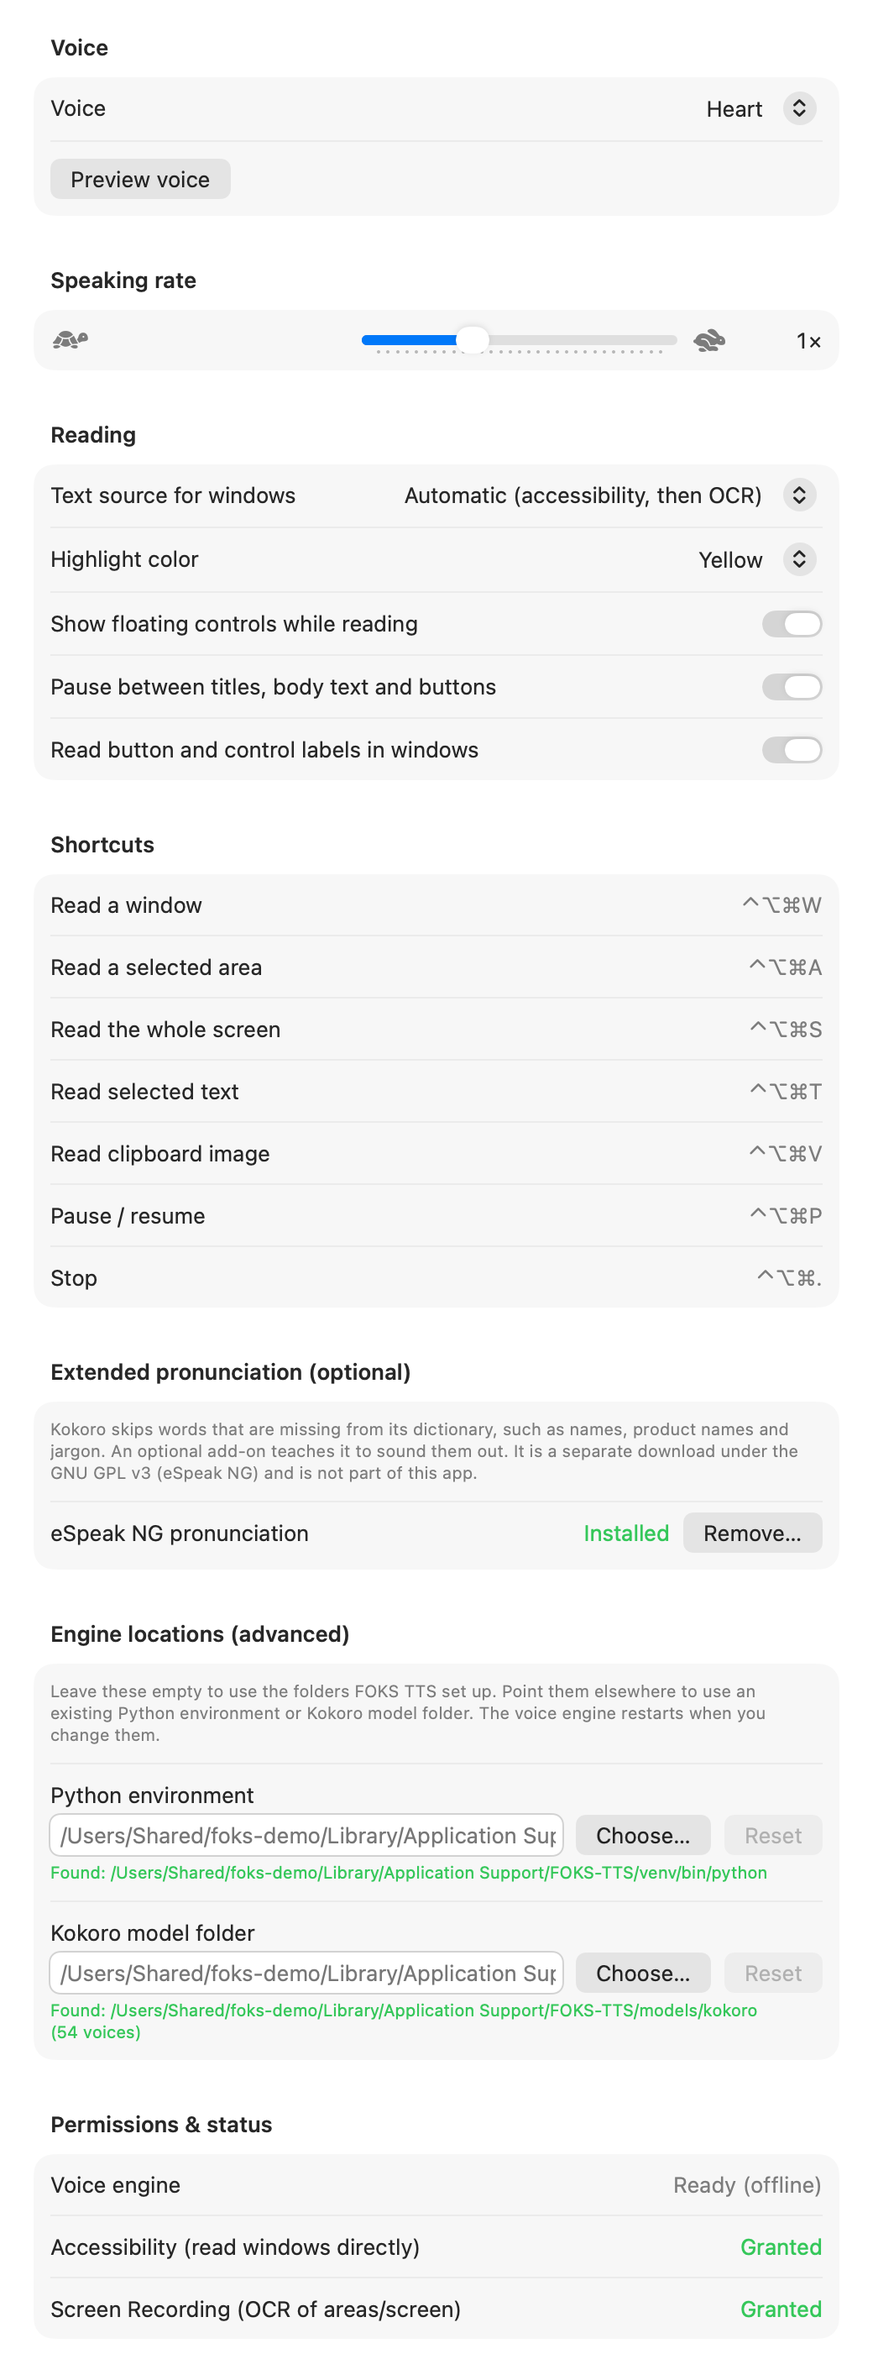
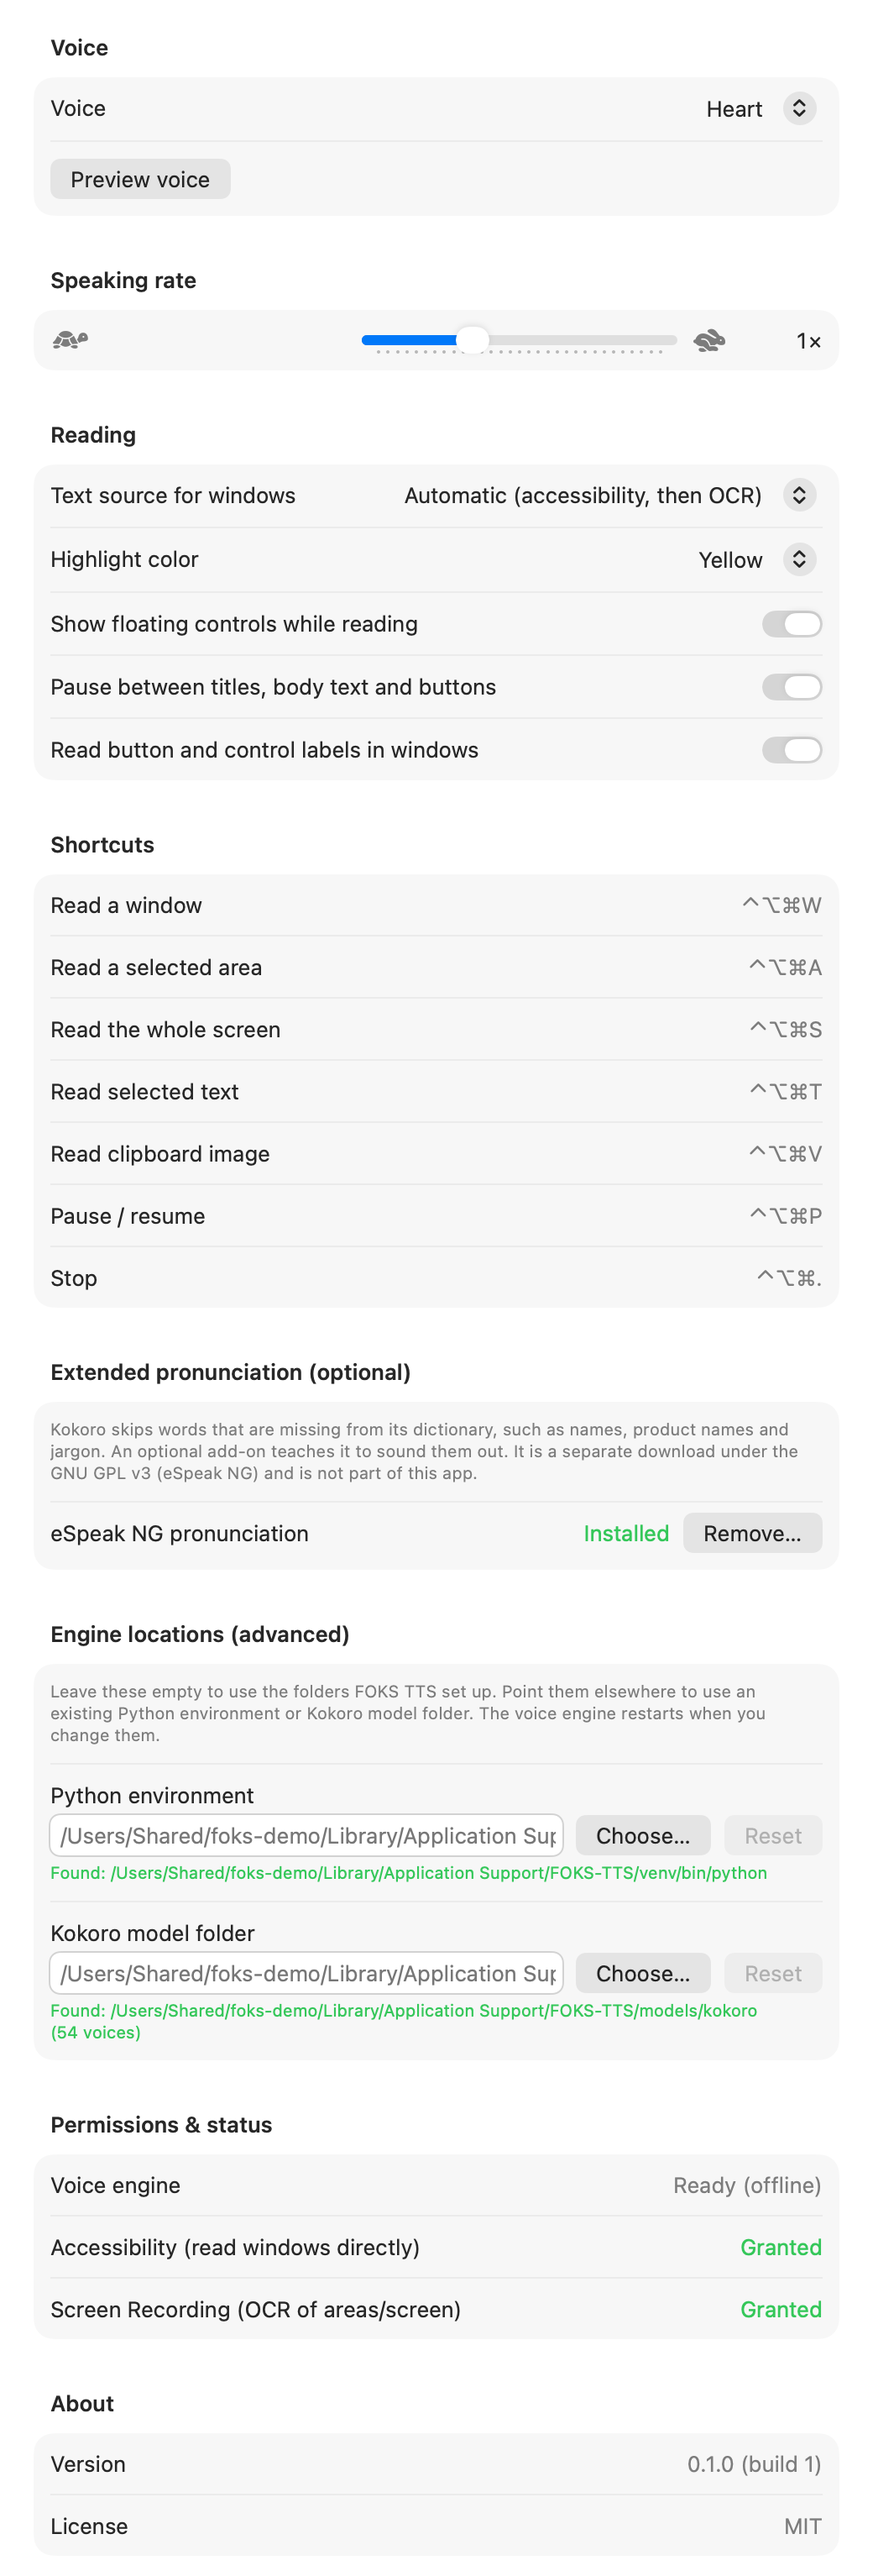
Add a changelog and an About section showing the version
CHANGELOG.md (Keep a Changelog) covers 0.1.0 and what changed since; make release now requires an entry for the
version being released, and make bump reminds you to write it. Settings has an About section with the version and
build number from Info.plist, and the launch log line includes the version. The README images are re-rendered to
show the new section.

diff --git a/tools/screenshots/main.swift b/tools/screenshots/main.swift
@@ -10,6 +10,11 @@ let args = CommandLine.arguments
 guard args.count == 3 else { FileHandle.standardError.write(Data("usage: render <out-dir> <MenuBarIcon@2x.png>\n".utf8)); exit(2) }
 let outDir = URL(fileURLWithPath: args[1])
 let iconURL = URL(fileURLWithPath: args[2])
+// the version shown in About comes from app/Info.plist (this harness runs without an app bundle)
+let infoURL = iconURL.deletingLastPathComponent().deletingLastPathComponent().appendingPathComponent("Info.plist")
+if let info = NSDictionary(contentsOf: infoURL), let v = info["CFBundleShortVersionString"] as? String {
+    AppInfo.override = (info["CFBundleVersion"] as? String).map { "\(v) (build \($0))" } ?? v
+}
 let app = NSApplication.shared
 app.setActivationPolicy(.accessory)
 
@@ -42,18 +47,18 @@ func renderSettings(dark: Bool) -> NSBitmapImageRep {
     let status = StatusModel.shared
     status.frozen = true
     status.ready = true; status.axOK = true; status.scOK = true; status.espeak = true
-    let root = SettingsView(onPreview: {}, onInstallAddon: {}, onRemoveAddon: {}, height: 1500)
+    let root = SettingsView(onPreview: {}, onInstallAddon: {}, onRemoveAddon: {}, height: 1700)
         .environment(\.controlActiveState, .key)
     let vc = NSHostingController(rootView: root)
     let window = NSWindow(contentViewController: vc)
-    window.setContentSize(NSSize(width: 520, height: 1500))
+    window.setContentSize(NSSize(width: 520, height: 1700))
     window.appearance = app.appearance
     window.layoutIfNeeded()
     RunLoop.current.run(until: Date().addingTimeInterval(0.6))     // let SwiftUI lay out and the controls settle
     let view = vc.view
-    view.frame = NSRect(x: 0, y: 0, width: 520, height: 1500)
+    view.frame = NSRect(x: 0, y: 0, width: 520, height: 1700)
     view.layoutSubtreeIfNeeded()
-    let rep = NSBitmapImageRep(bitmapDataPlanes: nil, pixelsWide: 1040, pixelsHigh: 3000, bitsPerSample: 8, samplesPerPixel: 4,
+    let rep = NSBitmapImageRep(bitmapDataPlanes: nil, pixelsWide: 1040, pixelsHigh: 3400, bitsPerSample: 8, samplesPerPixel: 4,
                                hasAlpha: true, isPlanar: false, colorSpaceName: .deviceRGB, bytesPerRow: 0, bitsPerPixel: 0)!
     rep.size = view.bounds.size                                      // 2x: the PNG is 1040 px wide
     view.cacheDisplay(in: view.bounds, to: rep)

diff --git a/app/Sources/Settings.swift b/app/Sources/Settings.swift
@@ -12,6 +12,17 @@ struct VoiceGroup: Identifiable {
     let voices: [VoiceInfo]
 }
 
+/// The app's version, from Info.plist ("0.1.0 (build 1)"). `override` is for tools/screenshots, which has no bundle.
+enum AppInfo {
+    static var override: String?
+    static var version: String {
+        if let o = override { return o }
+        let d = Bundle.main.infoDictionary
+        guard let v = d?["CFBundleShortVersionString"] as? String else { return "development build" }
+        return (d?["CFBundleVersion"] as? String).map { "\(v) (build \($0))" } ?? v
+    }
+}
+
 final class Settings: ObservableObject {
     static let shared = Settings()
     /// ~/Library/Application Support/FOKS-TTS: `venv` (Python environment) and `models/kokoro` (model and voices).

diff --git a/app/Sources/main.swift b/app/Sources/main.swift
@@ -95,7 +95,7 @@ final class AppDelegate: NSObject, NSApplicationDelegate, NSMenuDelegate {
         serviceProvider.onText = { [weak self] text in self?.readText(text) }
         NSApp.servicesProvider = serviceProvider
         NSUpdateDynamicServices()
-        Log.write("---- launch: accessibility=\(AXText.trusted(prompt: false)) screenRecording=\(CGPreflightScreenCaptureAccess()) screens=\(NSScreen.screens.count)")
+        Log.write("---- launch: version \(AppInfo.version) accessibility=\(AXText.trusted(prompt: false)) screenRecording=\(CGPreflightScreenCaptureAccess()) screens=\(NSScreen.screens.count)")
         Log.write(Settings.locationSummary())
         runTestMode()
     }

diff --git a/app/Sources/UI.swift b/app/Sources/UI.swift
@@ -192,6 +192,10 @@ struct SettingsView: View {
                     }
                 }
             }
+            Section("About") {
+                LabeledContent("Version", value: AppInfo.version)
+                LabeledContent("License", value: "MIT")
+            }
         }
         .formStyle(.grouped)
         .frame(width: 520, height: height)

diff --git a/CHANGELOG.md b/CHANGELOG.md
@@ -1,0 +1,38 @@
+# Changelog
+
+All notable changes to FOKS TTS. The format follows [Keep a Changelog](https://keepachangelog.com/en/1.1.0/) and the
+project uses [Semantic Versioning](https://semver.org/) (see `HANDOFF.md`). Add an entry here before running
+`make release`; it checks that the version has one.
+
+## [Unreleased]
+
+### Added
+- An **About** section in Settings showing the version and build number; the version is also logged at each launch.
+- `make screenshots`: the README images are re-rendered from the real views (`tools/render_screenshots.sh`).
+- This changelog.
+
+### Removed
+- The original command-line prototypes (`read_clipboard.sh`, `read_screen.swift`, `speak.py`, `speak_words.py`,
+  `screen_to_speech.sh`, `vision_ocr.swift`). They are kept at the git tag `prototypes-v1`.
+
+## [0.1.0] - 2026-10-14
+
+First tagged release (source only: build it with `./install.sh`).
+
+### Added
+- A macOS menu bar app that reads text aloud with the offline Kokoro-82M voice (MLX) and highlights each word in
+  place: a window (Accessibility API, with OCR fallback), a dragged area, the whole screen, selected text, the
+  clipboard image, or text sent from the Services menu. Global shortcuts, a floating pause/stop/speed bar, and a
+  Settings window for the voice, speaking rate and reading options.
+- Reading in sections: titles, body text and controls are told apart and separated by short pauses.
+- An optional GPL pronunciation add-on (eSpeak NG), installed from Settings with a consent notice and never bundled.
+- Engine locations in Settings, to use an existing Python environment or Kokoro model folder.
+- `install.sh` and `uninstall.sh`; hash-locked dependencies; an MIT license and a generated third-party notices file.
+- Developer tooling: a Makefile (`make` lists the tasks), a pytest suite, `make release`, and project notes for
+  assistants (`CLAUDE.md`, `AGENTS.md`, `HANDOFF.md`).
+
+### Fixed
+- The voice worker's memory use: MLX's GPU buffer cache was unbounded (several GB after a few reads) and could exhaust
+  memory. It is now capped at 256 MB and cleared after each read.
+- Reading an area while another app (a screen share) was using the Neural Engine failed with an `e5rt` error; text
+  recognition now retries on the CPU.

diff --git a/CLAUDE.md b/CLAUDE.md
@@ -65,6 +65,7 @@ gotcha 1).
 | `app/Sources/TTSWorker.swift`, `app/tts_worker.py`, `tts_core.py` | the voice worker client, protocol, and engine (chunking, per-word alignment, fixes) |
 | `app/Sources/Settings.swift`, `UI.swift`, `OptionalPackages.swift`, `Log.swift` | settings model (including the Python and model-folder overrides and their status checks), SwiftUI settings and floating controller, the optional GPL add-on installer, diagnostic log |
 | `app/Icon/make_icon.swift`, `brand/` | procedural icon and the palette (single source of truth: `brand/palette.json`) |
+| `CHANGELOG.md` | Keep a Changelog format; `make release` requires an entry for the version being released |
 | `install.sh`, `uninstall.sh`, `app/build_app.sh`, `app/install_local.sh` | installer, build, local install and Services registration |
 | `requirements/` | `core.lock` (69 hash-locked packages, no GPL), the optional GPL add-on lock, and `dev.lock` (test tools, not shipped) |
 

diff --git a/HANDOFF.md b/HANDOFF.md
@@ -88,7 +88,7 @@ git log --all --format='%an <%ae>' | sort -u      # expect only the noreply iden
   (`~/Library/Application Support/FOKS-TTS`) or the minimum macOS version; bump the **patch** version for fixes.
 - In `app/Info.plist`, `CFBundleShortVersionString` is the version and `CFBundleVersion` is a whole **build number**
   that goes up by one for every release and is never reused (update tools compare it). `make bump` sets both.
-- Flow: `make bump VERSION=0.1.0`, commit and push, `make build` (the release runs the built-app test and refuses a stale
+- Flow: `make bump VERSION=0.1.0`, add a `## [0.1.0]` entry to `CHANGELOG.md` (the release refuses without one), commit and push, `make build` (the release runs the built-app test and refuses a stale
   build), `make release VERSION=0.1.0` (checks, tests, `dist/` tarball and checksum, local tag). It publishes nothing:
   push the tag and create the GitHub release by hand.
 
